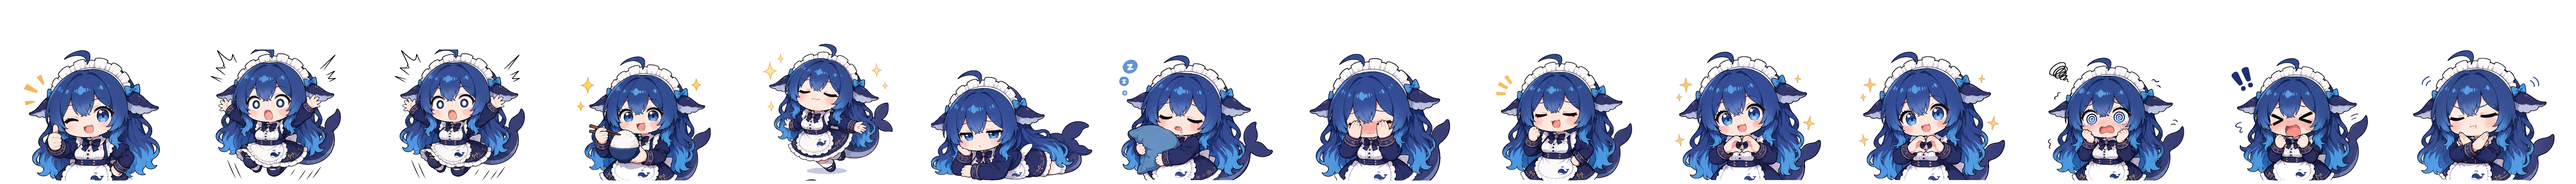
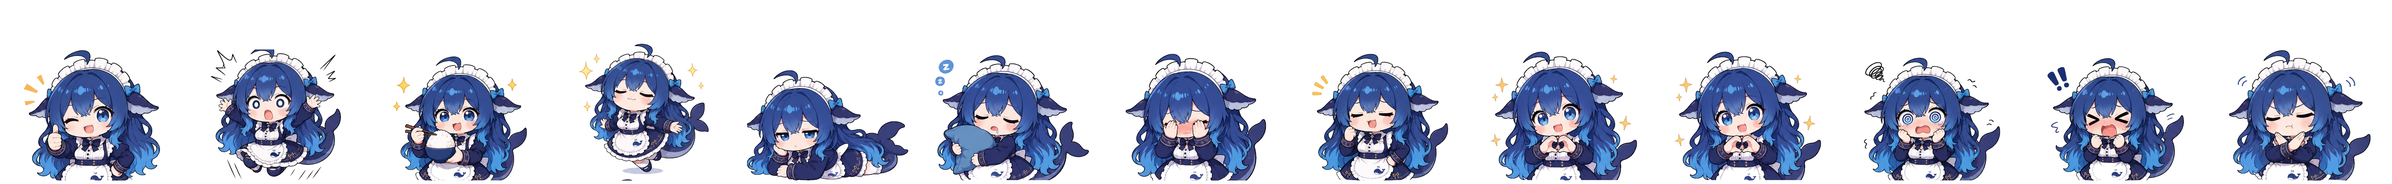
设置加pet大小滑条+自主行为演示按钮(随机心情/选歌单/听歌/哼歌); 待机改单帧静止(去切图闪); 待机微压缩拉伸(体积守恒±3.2%)

diff --git a/src/renderer/src/settings/SettingsApp.tsx b/src/renderer/src/settings/SettingsApp.tsx
@@ -34,10 +34,13 @@ export function SettingsApp(): JSX.Element {
   const [citySaved, setCitySaved] = useState('')
   // 音量
   const [volume, setVolume] = useState(0.8)
+  // pet 缩放
+  const [petScale, setPetScale] = useState(1)
   // 角色包
   const [packs, setPacks] = useState<PackInfo[]>([])
   const [currentPack, setCurrentPack] = useState('dafeiyu')
   const [importMsg, setImportMsg] = useState('')
+  const [demoMsg, setDemoMsg] = useState('')
   // 顶部实时状态
   const [player, setPlayer] = useState<PlayerLite | null>(null)
 
@@ -52,6 +55,8 @@ export function SettingsApp(): JSX.Element {
     })
     void window.gugu.packsList().then(setPacks)
     void window.gugu.petPackGet().then(setCurrentPack)
+    const saved = Number(localStorage.getItem('gugu-scale') || '1')
+    if (saved > 0) setPetScale(saved)
     const off = window.gugu.onMusicState(({ player: p }) => {
       setPlayer({ track: p.track, playing: p.playing, volume: p.volume })
     })
@@ -249,6 +254,41 @@ export function SettingsApp(): JSX.Element {
         {importMsg && <span className="panel-hint">{importMsg}</span>}
       </div>
       <div className="panel-sub">选择若干图片（白底/透明底均可），即刻变身</div>
+
+      <div className="panel-row">
+        <span className="panel-label">🔍 pet 大小</span>
+        <div className="panel-inline panel-inline-right">
+          <input
+            type="range"
+            min={0.5}
+            max={2}
+            step={0.1}
+            value={petScale}
+            onChange={(e) => {
+              const v = Number(e.target.value)
+              setPetScale(v)
+              void window.gugu.petScale(v)
+            }}
+            className="panel-range"
+          />
+          <span className="panel-volume-num">{Math.round(petScale * 100)}%</span>
+        </div>
+      </div>
+
+      <div className="panel-sep" />
+
+      <button
+        className="panel-link"
+        onClick={() => {
+          setDemoMsg('表演开始…')
+          void window.gugu.petAutonomyDemo().then(() => setDemoMsg(''))
+          window.setTimeout(() => setDemoMsg(''), 4000)
+        }}
+      >
+        <span>🎭 自主行为演示（随机心情选歌单听歌哼歌）</span>
+        <span className="panel-link-arrow">›</span>
+      </button>
+      {demoMsg && <div className="panel-hint">{demoMsg}</div>}
 
       <div className="panel-sep" />
 

diff --git a/src/main/agent/scenes.ts b/src/main/agent/scenes.ts
@@ -151,6 +151,33 @@ class SceneEngine {
     }
   }
 
+  /** 自主行为演示：随机心情 → 选歌单 → 听歌 → 哼歌/跳舞（设置面板测试按钮） */
+  async autonomyDemo(): Promise<void> {
+    const moods: Array<{ name: string; kw: string; act: 'hum' | 'dance'; line: string }> = [
+      { name: '元气满满', kw: '欢快 热门', act: 'dance', line: '今天元气满满，挑了几首带感的♪' },
+      { name: '有点emo', kw: '伤感 深夜', act: 'hum', line: '有点emo…我自己听会儿歌' },
+      { name: '慵懒午后', kw: '轻音乐 慵懒', act: 'hum', line: '慵懒的下午，来点轻音乐吧' },
+      { name: '想嗨一下', kw: '劲爆 摇滚', act: 'dance', line: '想嗨一下！这些歌我存好久了' },
+      { name: '回忆杀', kw: '经典 老歌', act: 'hum', line: '忽然想听几首老歌…' }
+    ]
+    const mood = moods[Math.floor(Math.random() * moods.length)]
+    this.bubble('say', `${mood.line}（心情：${mood.name}）`)
+    let queue: Awaited<ReturnType<typeof musicService.api.search>> = []
+    try {
+      queue = await musicService.api.search(mood.kw, 10)
+    } catch {
+      /* 网络失败仍表演动作 */
+    }
+    if (queue.length) {
+      // 非 VIP 优先，避免连跳
+      const free = queue.filter((t) => !t.vip)
+      const list = free.length >= 3 ? free : queue
+      musicService.playInRenderer(list, 0)
+    }
+    sendToPet('pet:command', { action: mood.act })
+    if (mood.act === 'hum') sendToPet('pet:command', { action: 'say', text: '♪～♪～' })
+  }
+
   private async enterEmo(reason: string, autoplay = true): Promise<void> {
     this.mode = 'emo'
     this.emoStartedAt = Date.now()

diff --git a/src/renderer/src/pet/engine.ts b/src/renderer/src/pet/engine.ts
@@ -176,6 +176,9 @@ export class PetEngine {
         case 'scale-down':
           this.changeScale(1 / 1.15)
           break
+        case 'scale':
+          if (typeof (raw as { value?: number }).value === 'number') this.setScale((raw as { value: number }).value)
+          break
         case 'hotcomments':
           bus.emit('hotComments', undefined)
           break
@@ -494,7 +497,17 @@ export class PetEngine {
 
   // ---- 公共指令（右键菜单 / 大脑 M4） ----
 
-  /** 缩放桌宠（0.5~2.0），localStorage 持久化 */
+  /** 精确设置缩放（设置面板滑条） */
+  setScale(v: number): void {
+    this.scaleFactor = Math.min(2, Math.max(0.5, Number(v.toFixed(2))))
+    localStorage.setItem('gugu-scale', String(this.scaleFactor))
+  }
+
+  get scale(): number {
+    return this.scaleFactor
+  }
+
+  /** 缩放桌宠（0.5~2.0 倍率，托盘用），localStorage 持久化 */
   changeScale(mult: number): void {
     this.scaleFactor = Math.min(2, Math.max(0.5, Number((this.scaleFactor * mult).toFixed(2))))
     localStorage.setItem('gugu-scale', String(this.scaleFactor))

diff --git a/src/preload/index.ts b/src/preload/index.ts
@@ -123,6 +123,8 @@ export interface GuguApi {
   petPackGet(): Promise<string>
   petPackSet(id: string): Promise<{ ok: boolean }>
   petImport(): Promise<{ ok: boolean; id?: string; count?: number; error?: string }>
+  petScale(v: number): Promise<{ ok: boolean }>
+  petAutonomyDemo(): Promise<{ ok: boolean }>
 }
 
 const api: GuguApi = {
@@ -220,7 +222,9 @@ const api: GuguApi = {
   },
   petPackGet: () => ipcRenderer.invoke('pet:pack:get'),
   petPackSet: (id) => ipcRenderer.invoke('pet:pack:set', id),
-  petImport: () => ipcRenderer.invoke('pet:import')
+  petImport: () => ipcRenderer.invoke('pet:import'),
+  petScale: (v) => ipcRenderer.invoke('pet:scale', v),
+  petAutonomyDemo: () => ipcRenderer.invoke('pet:autonomy-demo')
 }
 
 contextBridge.exposeInMainWorld('gugu', api)

diff --git a/src/main/settings.ts b/src/main/settings.ts
@@ -24,6 +24,18 @@ export function registerSettingsIpc(): void {
     return { ok: true }
   })
 
+  ipcMain.handle('pet:scale:get', () => loadConfig())
+  ipcMain.handle('pet:scale', (_e, v: unknown) => {
+    const val = Math.min(2, Math.max(0.5, Number(v) || 1))
+    for (const win of BrowserWindow.getAllWindows()) {
+      if (win.getTitle() === 'Gugu Pet') win.webContents.send('pet:command', { action: 'scale', value: val })
+    }
+    return { ok: true }
+  })
+  ipcMain.handle('pet:autonomy-demo', () => {
+    void import('./agent/scenes').then(({ sceneEngine }) => sceneEngine.autonomyDemo())
+    return { ok: true }
+  })
   ipcMain.handle('pet:pack:get', () => loadConfig().packId || 'dafeiyu')
   ipcMain.handle('pet:import', () => importCustomPack())
 

diff --git a/src/renderer/src/pet/motion.ts b/src/renderer/src/pet/motion.ts
@@ -48,13 +48,13 @@ export class Motion {
     let rotation = 0
     let offsetY = 0
 
-    // 呼吸（睡眠时更慢更深）
+    // 待机微压缩拉伸（呼吸）：纵缩横胀体积守恒，睡眠更慢更深
     if (!airborne && speed < 40) {
-      const period = ctx.sleeping ? 5.2 : 3.4
-      const amp = ctx.sleeping ? 0.03 : 0.02
+      const period = ctx.sleeping ? 5.2 : 3.2
+      const amp = ctx.sleeping ? 0.035 : 0.032
       const br = Math.sin((this.t / period) * Math.PI * 2)
       scaleY *= 1 + amp * br
-      scaleX *= 1 - amp * 0.7 * br
+      scaleX *= 1 / (1 + amp * br) // 体积守恒：压扁时变宽、拉长时变窄
     }
 
     // 空中：沿速度方向的拉伸 + 侧倾

diff --git a/src/main/petpack.ts b/src/main/petpack.ts
@@ -213,6 +213,7 @@ export async function importCustomPack(): Promise<ImportResult> {
 
   const frames: Record<string, { index: number; groundRow: number }> = {}
   const frameNames: string[] = []
+  void 0
   cells.forEach((_, i) => {
     const name = `idle_${i}`
     frames[name] = { index: i, groundRow: CELL - 9 }
@@ -227,7 +228,7 @@ export async function importCustomPack(): Promise<ImportResult> {
     pixel: false,
     sprite: { image: 'sheet.png', frameSize: [CELL, CELL], scale: 104 / CELL },
     frames,
-    slots: { idle: { frames: frameNames, fps: 0.7, loop: true } },
+    slots: { idle: { frames: frameNames.slice(0, 1), fps: 1, loop: true } }, // 单帧静止
     fallbacks: {}
   }
 

diff --git a/HANDOFF.md b/HANDOFF.md
@@ -128,6 +128,7 @@ npm run dev      # 启动（鸽子会出现在屏幕角落）
 - **★ 头顶对话气泡（2026-09-30）**：行内聊天 overlay/HeadChat——脚边圆钮点开（不再开聊天窗），头顶输入框自动聚焦，Enter/↑ 发送，AI 回复向上堆叠（最多3条渐淡，新回复贴输入框），Esc 关闭；思考中三点动画。前提：brain.sendToChat 现在**同时广播聊天窗+宠物窗**（chat:reply）。聊天窗仍可从托盘「陪我聊聊」打开，历史共享。CDP 验证时注意：改 brain.ts（主进程）后必须整重启，HMR 只刷渲染层。
 - **★ UI 分区定版（2026-09-30）**：跟随层内三区互斥——①播放条宠物**左上**(-258,-136)；②**语言区**（气泡）宠物**右侧专属槽**(54, 底40)，**单条气泡**（新气泡直接替换旧的，杜绝叠罗汉），超 3 行截断；③**聊天入口**像素圆钮脚边(56,-30)常驻，点击直达聊天窗。穿透区域三者全覆盖（regions.ts 同步）。深夜 EMO 自动播放已关（只哼歌）。
 - **★ 交互收敛到 mac 托盘（2026-09-30 终版）**：自绘右键菜单整体移除（用户决策：没必要、全塞顶栏），功能全部进托盘原生菜单（右键托盘）：播放控制/随机来一首/热评/EMO 演示/聊天/走两步/飞一圈/悬浮开关/变大变小/角色包子菜单（从 store 读当前勾选）/设置/登录/退出。引擎 pet:command 新增 walk/hover/scale-up/scale-down/hotcomments 分支；热评卡经 bus 'hotComments' 事件打开。recommend() 优先非 VIP（VIP 流常取不到，避免随机播放连跳）。窗口内 contextmenu 只 preventDefault 不弹菜单。
+- **★ 设置面板增强 + 待机修正（2026-10-07）**：设置新增「pet 大小」滑条（0.5-2.0，engine.setScale 精确值，localStorage）和「🎭 自主行为演示」按钮（scenes.autonomyDemo：5 种随机心情→气泡台词→按心情关键词搜歌单→非 VIP 优先播放→hum/dance 动作）。**idle 改单帧静止**（贴纸包多帧待机=闪图，烘焙器与导入管线都只取首帧）；待机呼吸改体积守恒微压缩拉伸（±3.2%，1/(1+amp) 反向补偿）。
 - **★ 播放栏 v3 / 设置页透明化（2026-10-07）**：播放栏居中小胶囊（208×71：歌名/控制行/**控制下方可拖动进度条**——pointer capture+120ms 节流 seek，点击 80% 实测 5s→126s）；像素 mic 换内置 SVG；透明风（rgba .3+blur+细线）。设置页：panel 底透明吃窗口 vibrancy，卡片/输入/按钮/芯片全部透明细线化。⚠ styles.css 改样式用 re.sub 删块极易因块顺序不符静默失败——改完必须 grep 断言旧规则没了再验证。
 - **★ sidecar 端口竞态（2026-10-07 真凶）**：app 重启时 pkill 旧 sidecar 后 600ms 没等死透→新进程绑 :28080 失败 exit(2)→就绪探测把垂死旧进程误判 ready→旧进程随后死掉→端口空置→**所有取链失败：放歌没声、播放栏永不出现**（日志特征 `exited (2)` 后跟 `ready`）。修：killStale 后轮询等端口真正释放；就绪判定要求**自己 spawn 的进程活着**且端口通；不满足清理重试一次；运行中崩溃 2s 自动复活（supervisor）。
 - **★ 播放状态脱节（2026-10-07）**：渲染层音频死掉后旧代码只在上报定时器里"播放中"才上报→主进程永远拿旧状态→LLM 说'还在播放'而实际无声无栏。修：①audio 每秒无条件上报+error 后补报；②主进程失联守卫（声称播放但 4s 无上报→判停广播）。**聊天回复双气泡**：旁边语言区只放颜文字（正文由头顶对话展示），brain.chat 末尾 pet:bubble 不再带 text。
